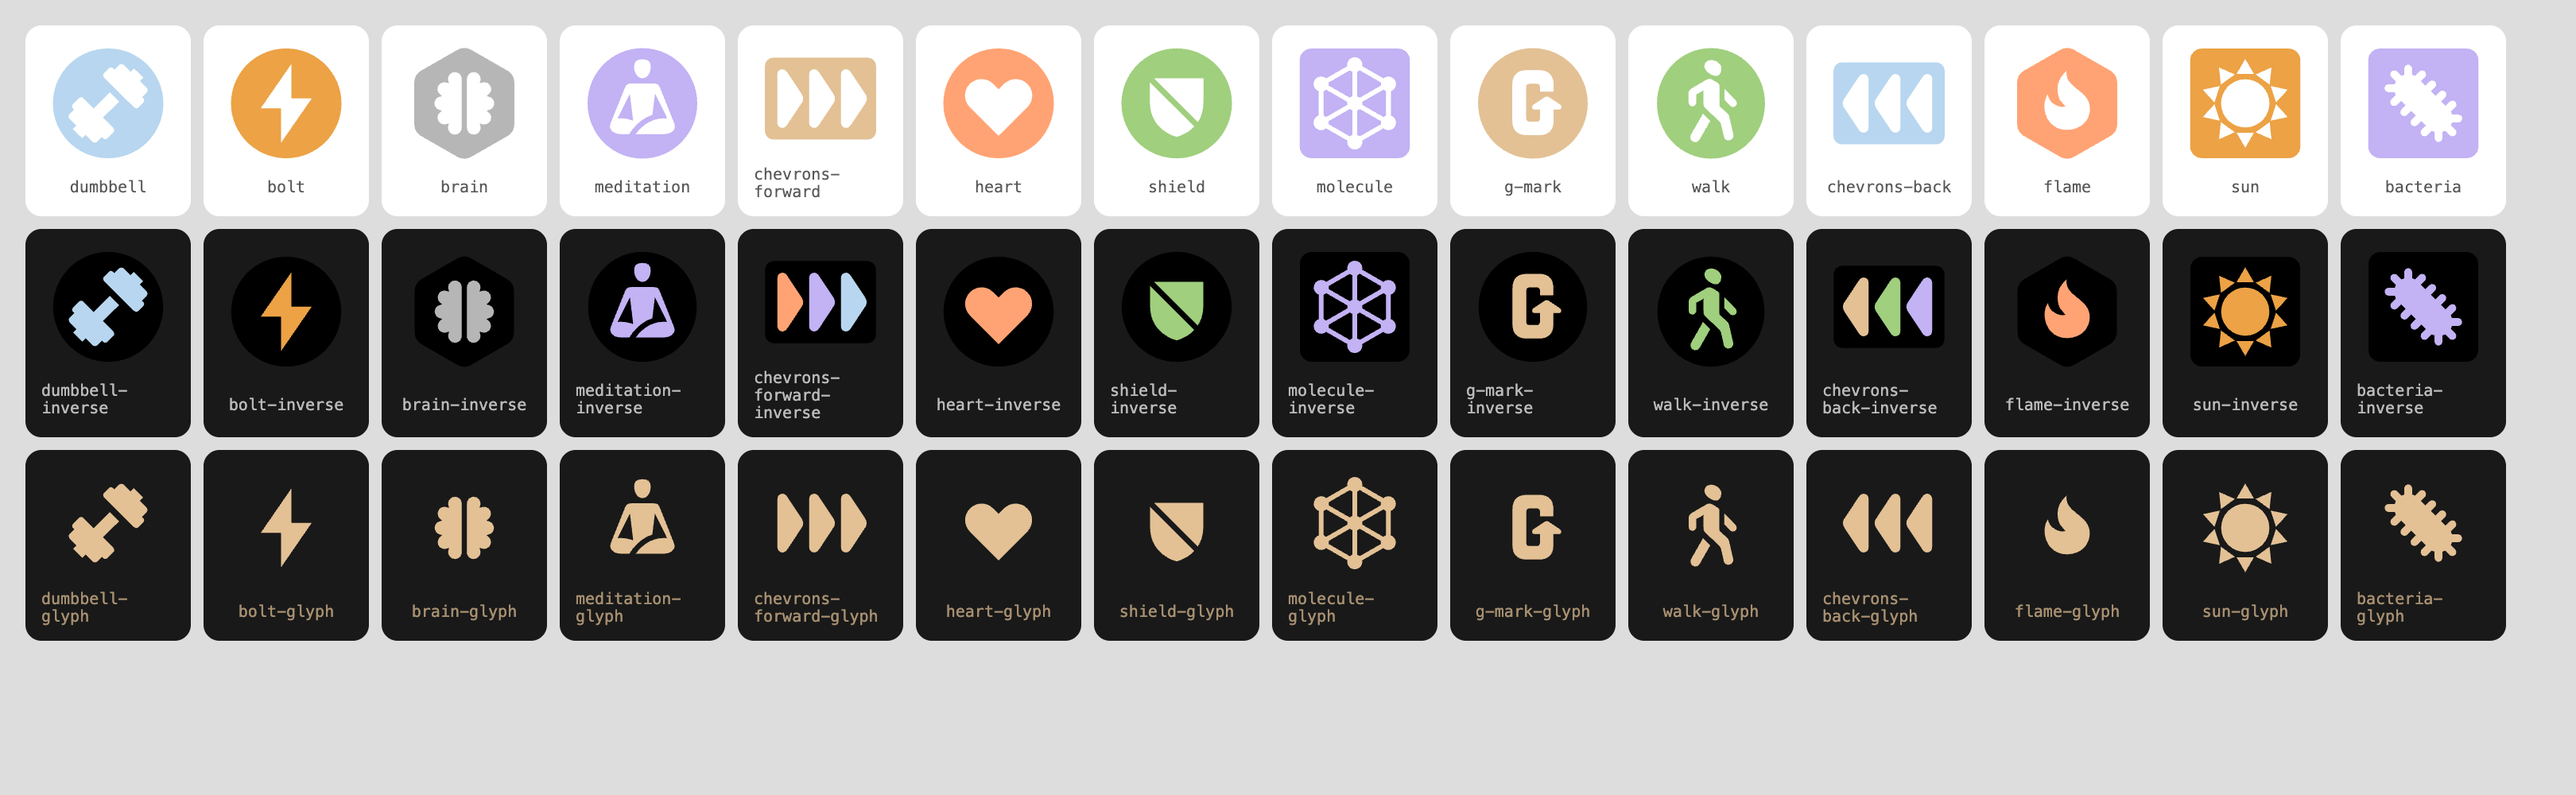
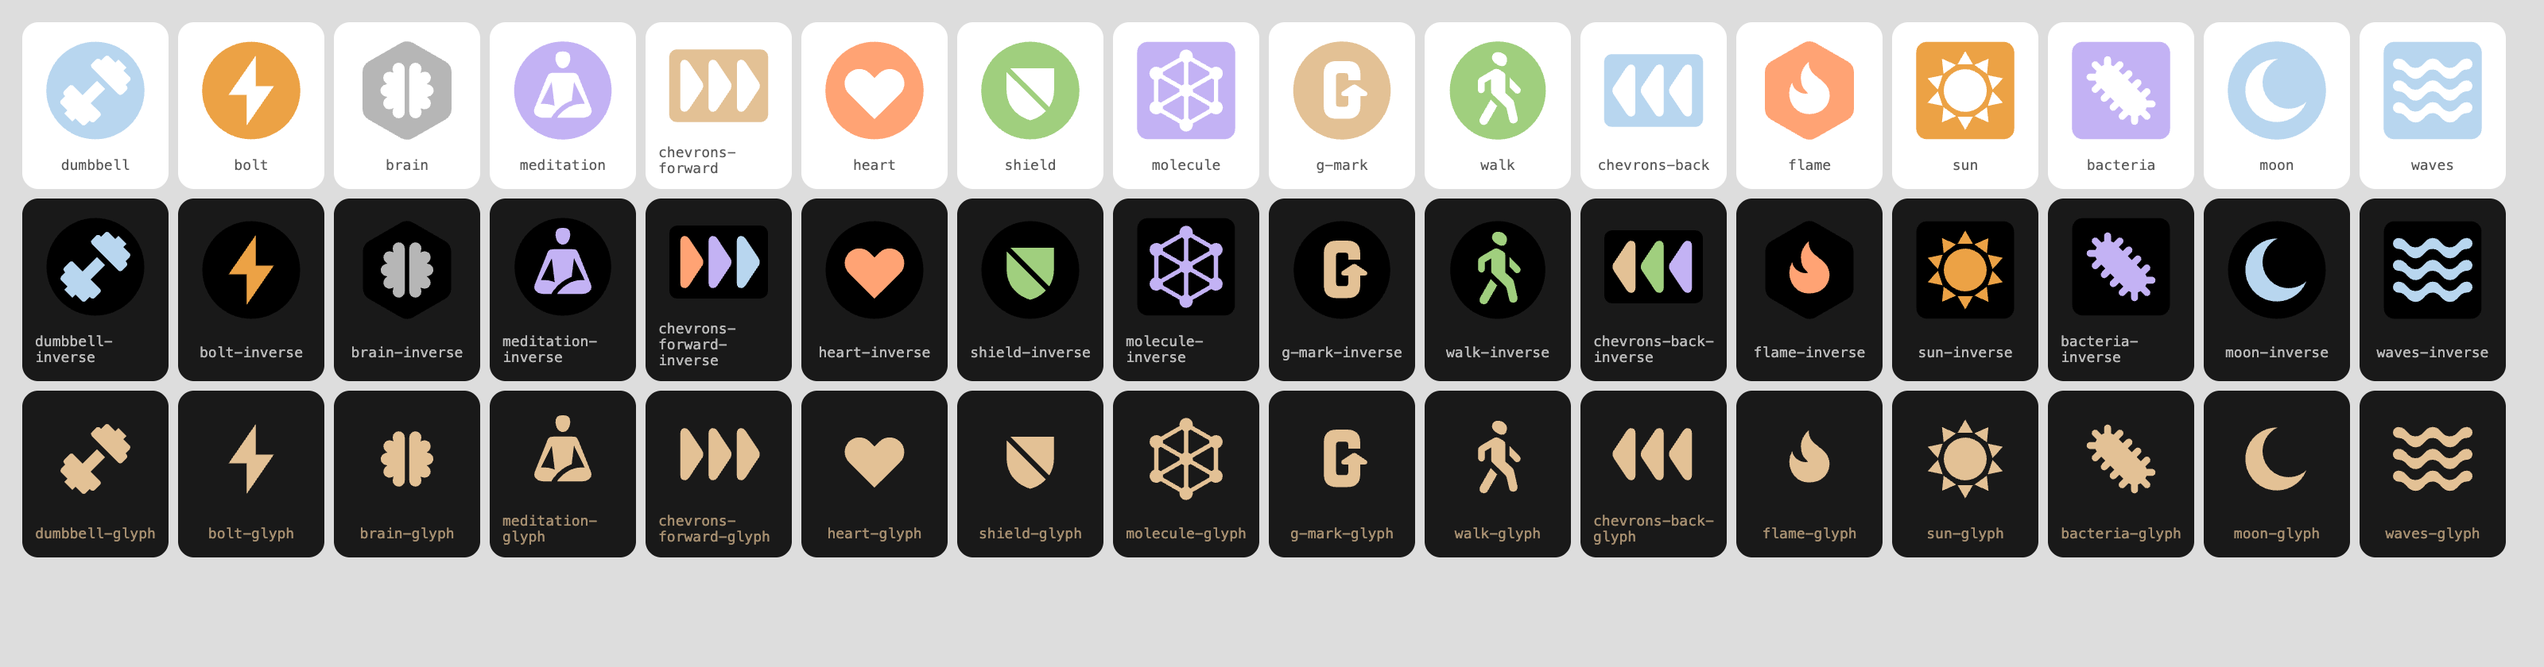
v1.4.0: піктограми moon і waves, тісні рамки гліфів, .gz-btn прибрано
Дві піктограми, яких у брендбуку нема, домальовано за геометрією набору:
той самий круг і скруглений квадрат, та сама вага гліфа, три варіанти на
кожну. moon закриває «тихий вечір, сон», waves «тишу в голові».

У всіх 16 гліфів (-glyph) viewBox ужато до самого гліфа з полем 6 %, щоб
поруч з інтерфейсними іконками 24×24 вони не дрібніли.

.gz-btn, .gz-btn--primary/secondary/outline прибрано з tokens.css: кнопки
живуть у components.css як .gz-button, магазин переведено на них 24.09.
.gz-chip і .gz-pill лишаються, у Figma для них специфікації нема.

diff --git a/tokens.css b/tokens.css
@@ -226,41 +226,7 @@
    Components
    ========================================================================== */
 
-.gz-btn {
-  display: inline-flex;
-  align-items: center;
-  gap: var(--gz-space-2);
-  padding: 14px 24px;
-  border: 1px solid transparent;
-  border-radius: var(--gz-radius-md);
-  font-family: var(--gz-font-sans);
-  font-size: var(--gz-text-body-md);
-  font-weight: var(--gz-weight-medium);
-  line-height: 1;
-  cursor: pointer;
-  transition: background var(--gz-duration-2) var(--gz-ease),
-              border-color var(--gz-duration-2) var(--gz-ease);
-}
-
-.gz-btn--primary {
-  background: var(--gz-tan);
-  color: var(--gz-black);
-}
-.gz-btn--primary:hover { background: #EBCEA8; }
-
-.gz-btn--secondary {
-  background: var(--gz-black);
-  border-color: var(--gz-white);
-  color: var(--gz-white);
-}
-.gz-btn--secondary:hover { background: var(--gz-surface-2); }
-
-.gz-btn--outline {
-  background: transparent;
-  border-color: var(--gz-tan);
-  color: var(--gz-tan);
-}
-.gz-btn--outline:hover { background: rgba(227, 193, 149, 0.1); }
+/* Кнопки живуть у components.css (.gz-button). Старий .gz-btn прибрано у v1.4.0. */
 
 /* Chip — the footer marker from every brandbook page. */
 .gz-chip {

diff --git a/README.md b/README.md
@@ -99,7 +99,8 @@ npm i github:maxromov/greebz-design#v1.0.0
 `icons/brand/` , 14 піктограм зі стор. 38 брендбука, витягнуті з PDF як вектор і
 приведені до токенів кольору. Імена: `dumbbell`, `bolt`, `brain`, `meditation`,
 `chevrons-forward`, `heart`, `shield`, `molecule`, `g-mark`, `walk`, `chevrons-back`,
-`flame`, `sun`, `bacteria`. Лист для ока: `icons/brand-sheet.png`.
+`flame`, `sun`, `bacteria`, а також `moon` (тихий вечір, сон) і `waves` (тиша в голові), домальовані 24.09.2026 за геометрією набору,
+бо в брендбуку для цих двох значень піктограм нема. Лист для ока: `icons/brand-sheet.png`.
 
 Три варіанти на кожну, як у BRAND-KEY §8:
 
@@ -107,7 +108,7 @@ npm i github:maxromov/greebz-design#v1.0.0
 | --- | --- | --- |
 | `<назва>.svg` | контейнер фірмового кольору, гліф вирізано наскрізь | на чорному: гліф читається чорним, на будь-якому іншому тлі , кольором тла |
 | `<назва>-inverse.svg` | чорний контейнер, кольоровий гліф | на полотні `#191919` і на світлих плитах |
-| `<назва>-glyph.svg` | лише гліф, `fill="currentColor"` | у тексті, кнопках, списках; колір задає CSS |
+| `<назва>-glyph.svg` | лише гліф, `fill="currentColor"` | у тексті, кнопках, списках; колір задає CSS  viewBox ужато до самого гліфа з полем 6 %, тож поруч з інтерфейсними іконками він не дрібніє |
 
 Кольори контейнерів закріплені за піктограмами так, як на стор. 38, і не
 змінюються: це частина впізнаваності набору.
